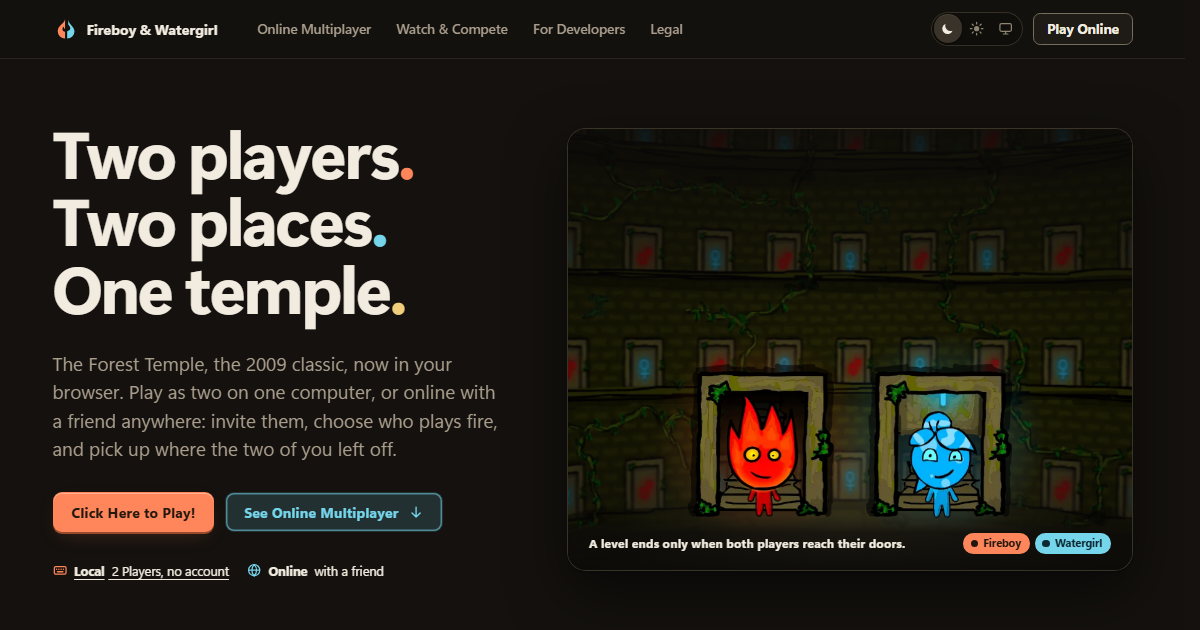
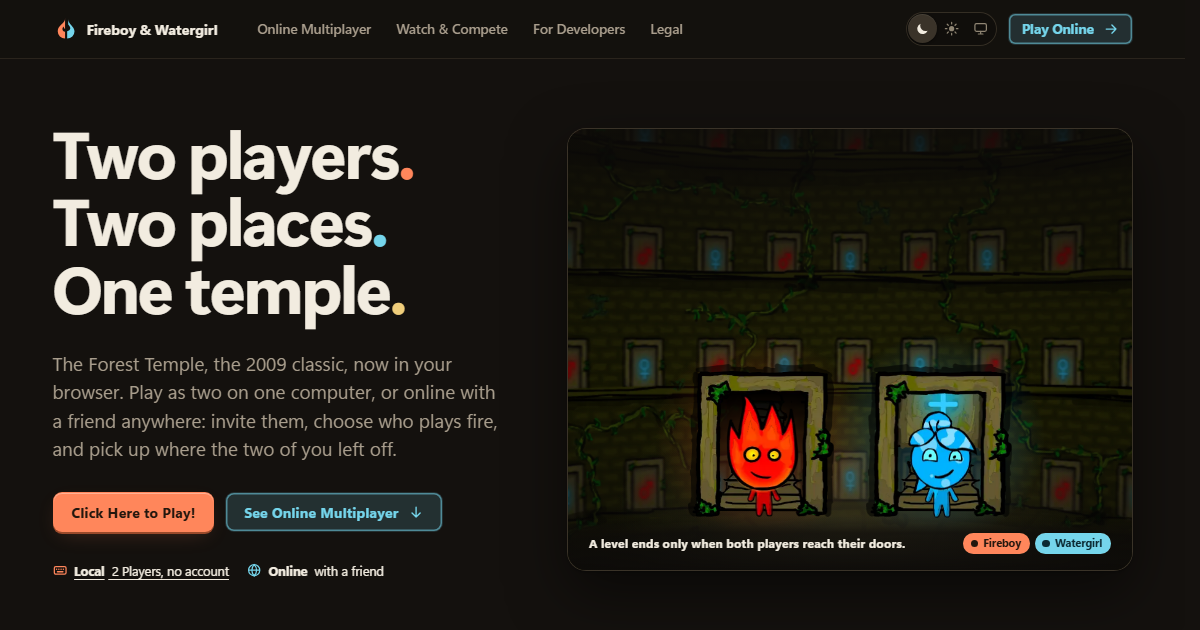
local play in the landing page's materials; a pulsing Play Online water button in every header
- #/local: the game framed between an ember and a water glow, each player's
  keys on their own card, keycaps that press and light with the keyboard.
- Play Online matches See Online Multiplayer (water tint, arrow) and breathes;
  the ring stops on hover and under reduced motion.
- The signed-out chunks (landing, local play, their shared styles) share the
  100 kB signed-out budget; the game's 860 kB budget is unchanged.

Changed region(s): [[0.74, 0.0, 0.9558, 0.0905], [0.74, 0.6032, 0.8325, 0.7238]]

diff --git a/app/src/screens/guest.ts b/app/src/screens/guest.ts
@@ -8,27 +8,72 @@
  * Progress lives under its own key, not the engine's default `FBCookie`:
  * `solosave.ts` adopts that legacy key into the next account that signs in on
  * this browser, and a guest's medals are not that account's.
+ *
+ * Dressed in the landing page's own stylesheets (adopted on arrival, removed
+ * on departure, exactly as `landing.ts` does) so the game is the same place
+ * the page that sent people here promised.
  */
 import { GameView, STAGE_W, STAGE_H } from "@engine/embed.js";
 import { LocalSave } from "@engine/game/save.js";
-import { el } from "../ui/dom.js";
+import tokens from "@landing/shared/tokens.css?inline";
+import base from "@landing/shared/base.css?inline";
+import local from "../ui/guest.css?inline";
+import { el, on } from "../ui/dom.js";
+import { emblem } from "../ui/brand.js";
 
 export const GUEST_KEY = "FBCookie:guest";
 
+const ARROW = '<svg viewBox="0 0 20 20" aria-hidden="true"><path d="M4 10h12m0 0-5-5m5 5-5 5" fill="none" stroke="currentColor" stroke-width="1.7" stroke-linecap="round" stroke-linejoin="round"/></svg>';
+
+const key = (code: string, label: string, name: string) =>
+  el("kbd", { "data-code": code, title: name }, label);
+
 export function guestScreen(host: HTMLElement): () => void {
+  const style = new CSSStyleSheet();
+  style.replaceSync([tokens, base, local].join("\n"));
+  document.adoptedStyleSheets = [...document.adoptedStyleSheets, style];
+  host.classList.add("guest-host");
+
   const canvas = el("canvas", {
-    id: "stage", width: STAGE_W, height: STAGE_H, tabindex: "0",
+    width: STAGE_W, height: STAGE_H, tabindex: "0",
     role: "application", "aria-label": "Fireboy and Watergirl, played on a canvas",
     "aria-describedby": "guest-keys",
   });
-  host.append(el("div", { class: "guest" },
-    el("header", { class: "guest-bar" },
-      el("a", { href: "#/" }, "Fireboy & Watergirl"),
-      el("a", { class: "secondary", href: "#/login" }, "Play Online")),
-    el("div", { class: "guest-stage" }, canvas),
-    el("p", { class: "note", id: "guest-keys" },
-      "Fireboy: arrow keys · Watergirl: W A D · P pauses. Progress is saved in this browser only.")));
+  const online = el("a", { class: "btn btn-water btn-s btn-online btn-pulse", href: "#/login" }, "Play Online ");
+  online.insertAdjacentHTML("beforeend", ARROW);
+
+  host.append(el("div", { class: "local" },
+    el("header", { class: "nav" },
+      el("div", { class: "wrap nav-row" },
+        el("a", { class: "brand", href: "#/", "aria-label": "Fireboy and Watergirl, home" },
+          emblem(), el("span", { class: "brand-text" }, "Fireboy & Watergirl")),
+        el("div", { class: "nav-end" }, online))),
+    el("main", { class: "local-main" },
+      el("div", { class: "local-stage" }, canvas),
+      el("div", { class: "local-controls", id: "guest-keys" },
+        el("div", { class: "player player-fire" },
+          el("span", { class: "player-name" }, "Fireboy"),
+          el("span", { class: "keys" },
+            key("ArrowLeft", "←", "Left arrow"), key("ArrowUp", "↑", "Up arrow"), key("ArrowRight", "→", "Right arrow"))),
+        el("p", { class: "local-hint" }, key("KeyP", "P", "P"), "pauses", el("br"), "Saved in this browser"),
+        el("div", { class: "player player-water" },
+          el("span", { class: "player-name" }, "Watergirl"),
+          el("span", { class: "keys" },
+            key("KeyA", "A", "A"), key("KeyW", "W", "W"), key("KeyD", "D", "D")))))));
+
+  // The keycaps follow the real keyboard. Listening is all this does: the game
+  // reads its own input, and nothing here prevents or changes a key.
+  const caps = new Map([...host.querySelectorAll<HTMLElement>("kbd[data-code]")].map(k => [k.dataset.code!, k]));
+  const press = (down: boolean) => (e: Event) => caps.get((e as KeyboardEvent).code)?.classList.toggle("is-down", down);
+  const release = () => caps.forEach(k => k.classList.remove("is-down"));
+  const off = [on(window, "keydown", press(true)), on(window, "keyup", press(false)), on(window, "blur", release)];
+
   const view = new GameView({ canvas, assets: __ASSETS__, save: new LocalSave(GUEST_KEY) });
   canvas.focus();
-  return () => view.destroy();
+  return () => {
+    view.destroy();
+    off.forEach(f => f());
+    host.classList.remove("guest-host");
+    document.adoptedStyleSheets = document.adoptedStyleSheets.filter(s => s !== style);
+  };
 }

diff --git a/app/src/ui/guest.css b/app/src/ui/guest.css
@@ -1,0 +1,86 @@
+/*
+ * Local play (screens/guest.ts), in the landing page's own materials: its
+ * tokens, its nav and its buttons (tokens.css and base.css are adopted beside
+ * this sheet), so leaving the landing page for a game feels like one place.
+ */
+
+/* The app centres a single card in #app; this is a full-bleed page. */
+#app.guest-host { display: block; padding: 0; min-height: 100dvh; align-items: initial; justify-content: initial; }
+body:has(#app.guest-host) { background-image: none; }
+
+.local { min-height: 100dvh; display: grid; grid-template-rows: auto 1fr; overflow-x: clip; }
+.local-main {
+  display: grid; align-content: center; justify-items: center; gap: 1.25rem;
+  padding: 1.25rem var(--gutter) 1.5rem;
+}
+
+/*
+ * The stage: as large as the window allows at 4:3, leaving room for the nav
+ * and the key cards. Behind it, an ember glow on Fireboy's side and a water
+ * glow on Watergirl's, so the frame sits between the two players' colours.
+ */
+.local-stage {
+  position: relative; isolation: isolate;
+  width: min(100%, calc((100dvh - 15.5rem) * 4 / 3)); min-width: min(100%, 20rem);
+  aspect-ratio: 4 / 3;
+  animation: local-in 520ms var(--ease-out) both;
+}
+.local-stage::before {
+  content: ""; position: absolute; inset: -12% -8%; z-index: -1; pointer-events: none;
+  background:
+    radial-gradient(50% 60% at 12% 55%, var(--glow-fire), transparent 70%),
+    radial-gradient(50% 60% at 88% 55%, var(--glow-water), transparent 70%);
+  filter: blur(24px);
+}
+.local-stage canvas {
+  display: block; width: 100%; height: 100%; outline: none; touch-action: none;
+  border-radius: 1rem; border: 1px solid var(--edge);
+  box-shadow: 0 1px 0 #ffffff0d inset, 0 2rem 4rem -1.5rem #000c;
+}
+@keyframes local-in { from { opacity: 0; transform: translateY(.5rem) scale(.985); } }
+
+/* ---- The two players' keys ---- */
+.local-controls {
+  width: min(100%, calc((100dvh - 15.5rem) * 4 / 3)); min-width: min(100%, 20rem);
+  display: grid; grid-template-columns: auto auto auto; justify-content: center; align-items: center; gap: .75rem 1.75rem;
+  animation: local-in 520ms 80ms var(--ease-out) both;
+}
+.player {
+  display: flex; align-items: center; justify-content: space-between; gap: .75rem;
+  padding: .625rem .75rem .625rem 1rem; border-radius: .875rem;
+  background: var(--surface); border: 1px solid var(--edge);
+}
+.player-name { font: 650 .9375rem/1.2 var(--heading); letter-spacing: -.005em; min-width: 5.5rem; }
+.player-fire .player-name { color: var(--fire-text); }
+.player-water .player-name { color: var(--water-text); }
+.player-water { flex-direction: row-reverse; padding: .625rem 1rem .625rem .75rem; }
+.keys { display: flex; gap: .375rem; }
+
+/*
+ * Keycaps that answer the keyboard: a key goes down the moment it is pressed
+ * (on keydown, not keyup) and lights in its player's colour, so two people
+ * learning the controls can see whose key is whose.
+ */
+.local kbd {
+  display: inline-grid; place-items: center; min-width: 2.25rem; height: 2.25rem; padding: 0 .5rem;
+  border-radius: .5rem; border: 1px solid var(--edge-strong); border-bottom-width: 3px;
+  background: linear-gradient(var(--raised), var(--surface));
+  color: var(--ink); font: 600 .875rem/1 var(--mono);
+  transition: transform 90ms var(--ease-out), border-width 90ms var(--ease-out), background-color 90ms var(--ease-out), box-shadow 160ms var(--ease);
+}
+.local kbd.is-down { transform: translateY(2px); border-bottom-width: 1px; }
+.player-fire kbd.is-down { background: color-mix(in srgb, var(--fire) 28%, var(--surface)); border-color: var(--fire-text); box-shadow: 0 0 1rem var(--glow-fire); }
+.player-water kbd.is-down { background: color-mix(in srgb, var(--water) 28%, var(--surface)); border-color: var(--water-text); box-shadow: 0 0 1rem var(--glow-water); }
+
+.local-hint { margin: 0; text-align: center; color: var(--faint); font-size: .8125rem; line-height: 1.5; }
+.local-hint kbd { min-width: 1.75rem; height: 1.75rem; font-size: .75rem; margin-right: .25rem; }
+
+@media (max-width: 760px) {
+  .local-controls { grid-template-columns: 1fr; justify-content: stretch; }
+  .local-hint { grid-row: 3; }
+}
+@media (prefers-reduced-motion: reduce) {
+  .local-stage, .local-controls { animation-name: local-fade; }
+  .local kbd.is-down { transform: none; }
+}
+@keyframes local-fade { from { opacity: 0; } }

diff --git a/design/landing/shared/base.css b/design/landing/shared/base.css
@@ -98,6 +98,35 @@ h1, h2, h3, h4, p { margin: 0; }
 .vg-btn.is-pressed { transform: scale(.97); }
 :where(.icon-btn, .seg button, .watch-replay, .nav-links a, .devnav a) { transition: transform 100ms var(--ease-out), background-color var(--press) var(--ease), color var(--press) var(--ease); }
 .btn-s { --h: 2.25rem; padding: 0 .875rem; font-size: .9375rem; border-radius: .5rem; }
+/*
+ * Ember and water, like the two players. The water button is tinted rather
+ * than filled so it stays second in rank: one saturated action per screen.
+ * Its arrow nudges the way it points on hover (--nudge).
+ */
+.btn-water { --nudge: translateY(2px); color: var(--water-text); background: color-mix(in srgb, var(--water) 16%, transparent); box-shadow: inset 0 0 0 1.5px color-mix(in srgb, var(--water-text) 55%, transparent); }
+.btn-water svg { transition: transform var(--settle) var(--ease); }
+.btn-online { --nudge: translateX(2px); }
+@media (hover: hover) and (pointer: fine) {
+  .btn-water:hover { background: color-mix(in srgb, var(--water) 26%, transparent); }
+  .btn-water:hover svg { transform: var(--nudge); }
+}
+/*
+ * Play Online breathes: a ring of water light leaves the button and fades,
+ * then rests. Compositor-only (transform and opacity on its own layer), so it
+ * never costs the page a frame. It stops while the pointer is on the button --
+ * once someone is there it has done its job -- and under reduced motion.
+ */
+.btn-pulse::after {
+  content: ""; position: absolute; inset: 0; border-radius: inherit; pointer-events: none;
+  box-shadow: 0 0 0 1.5px var(--water), 0 0 1rem color-mix(in srgb, var(--water) 45%, transparent);
+  opacity: 0; animation: btn-pulse 2.6s var(--ease-out) infinite;
+}
+@keyframes btn-pulse {
+  0% { opacity: .9; transform: scale(1); }
+  60%, 100% { opacity: 0; transform: scale(1.12, 1.35); }
+}
+@media (hover: hover) and (pointer: fine) { .btn-pulse:hover::after { animation: none; } }
+@media (prefers-reduced-motion: reduce) { .btn-pulse::after { animation: none; } }
 
 /* ---------- Nav ---------- */
 .nav {

diff --git a/design/landing/index.html b/design/landing/index.html
@@ -25,16 +25,6 @@
   /* The full stops carry the palette; nothing else in the headline does. */
   .stop-fire { color: var(--fire-text); } .stop-water { color: var(--water-text); } .stop-gold { color: var(--gold-text); }
   .hero-actions { display: flex; flex-wrap: wrap; gap: .75rem; align-items: center; }
-  /*
-   * Ember and water, like the two players. The secondary is tinted rather than
-   * filled so it stays second in rank: one saturated action per screen.
-   */
-  .btn-water { color: var(--water-text); background: color-mix(in srgb, var(--water) 16%, transparent); box-shadow: inset 0 0 0 1.5px color-mix(in srgb, var(--water-text) 55%, transparent); }
-  .btn-water svg { transition: transform var(--settle) var(--ease); }
-  @media (hover: hover) and (pointer: fine) {
-    .btn-water:hover { background: color-mix(in srgb, var(--water) 26%, transparent); }
-    .btn-water:hover svg { transform: translateY(2px); }
-  }
   .hero-meta { display: flex; flex-wrap: wrap; gap: .5rem 1.25rem; margin: 0; padding: 0; list-style: none; color: var(--faint); font-size: .875rem; }
   .hero-meta li { display: inline-flex; align-items: center; gap: .5rem; }
   .hero-meta svg { width: 1rem; height: 1rem; color: var(--moss-text); flex: none; }
@@ -125,7 +115,7 @@
     </nav>
     <div class="nav-end">
       <div id="theme"></div>
-      <a class="btn btn-ghost btn-s" href="#/login" data-signin>Play Online</a>
+      <a class="btn btn-water btn-s btn-online btn-pulse" href="#/login" data-signin>Play Online <svg viewBox="0 0 20 20" aria-hidden="true"><path d="M4 10h12m0 0-5-5m5 5-5 5" fill="none" stroke="currentColor" stroke-width="1.7" stroke-linecap="round" stroke-linejoin="round"/></svg></a>
     </div>
   </div>
 </header>

diff --git a/app/src/ui/styles.css b/app/src/ui/styles.css
@@ -584,13 +584,6 @@ kbd { padding:4px 8px; border:1px solid #5b5346; border-bottom-width:3px; border
   .friend-avatar::after { forced-color-adjust:none; }
 }
 
-/* Guest local play (screens/guest.ts): the stage, as large as fits, 4:3. */
-#app:has(.guest) { padding: 12px 14px; }
-.guest { width: 100%; display: grid; gap: 8px; justify-items: center; }
-.guest-bar { width: 100%; display: flex; justify-content: space-between; align-items: center; gap: 12px; }
-.guest-bar > a:first-child { white-space: nowrap; }
-.guest-bar a.secondary { width: auto; }
-.guest-stage { width: min(100%, calc((100dvh - 120px) * 4 / 3)); aspect-ratio: 4 / 3; }
 /* The age screen (age.ts): two fields side by side, otherwise the sign-up form's own pieces. */
 .age-row { display: grid; grid-template-columns: 1.4fr 1fr; gap: 10px; }
 .card .pick { min-height: 44px; }

diff --git a/design/landing/developers/architecture.html b/design/landing/developers/architecture.html
@@ -23,7 +23,7 @@
     </nav>
     <div class="nav-end">
       <div id="theme"></div>
-      <a class="btn btn-ghost btn-s" href="../#/login" data-signin>Play Online</a>
+      <a class="btn btn-water btn-s btn-online btn-pulse" href="../#/login" data-signin>Play Online <svg viewBox="0 0 20 20" aria-hidden="true"><path d="M4 10h12m0 0-5-5m5 5-5 5" fill="none" stroke="currentColor" stroke-width="1.7" stroke-linecap="round" stroke-linejoin="round"/></svg></a>
     </div>
   </div>
 </header>

diff --git a/design/landing/developers/index.html b/design/landing/developers/index.html
@@ -23,7 +23,7 @@
     </nav>
     <div class="nav-end">
       <div id="theme"></div>
-      <a class="btn btn-ghost btn-s" href="../#/login" data-signin>Play Online</a>
+      <a class="btn btn-water btn-s btn-online btn-pulse" href="../#/login" data-signin>Play Online <svg viewBox="0 0 20 20" aria-hidden="true"><path d="M4 10h12m0 0-5-5m5 5-5 5" fill="none" stroke="currentColor" stroke-width="1.7" stroke-linecap="round" stroke-linejoin="round"/></svg></a>
     </div>
   </div>
 </header>

diff --git a/design/landing/developers/netcode.html b/design/landing/developers/netcode.html
@@ -23,7 +23,7 @@
     </nav>
     <div class="nav-end">
       <div id="theme"></div>
-      <a class="btn btn-ghost btn-s" href="../#/login" data-signin>Play Online</a>
+      <a class="btn btn-water btn-s btn-online btn-pulse" href="../#/login" data-signin>Play Online <svg viewBox="0 0 20 20" aria-hidden="true"><path d="M4 10h12m0 0-5-5m5 5-5 5" fill="none" stroke="currentColor" stroke-width="1.7" stroke-linecap="round" stroke-linejoin="round"/></svg></a>
     </div>
   </div>
 </header>

diff --git a/design/landing/developers/recovery.html b/design/landing/developers/recovery.html
@@ -23,7 +23,7 @@
     </nav>
     <div class="nav-end">
       <div id="theme"></div>
-      <a class="btn btn-ghost btn-s" href="../#/login" data-signin>Play Online</a>
+      <a class="btn btn-water btn-s btn-online btn-pulse" href="../#/login" data-signin>Play Online <svg viewBox="0 0 20 20" aria-hidden="true"><path d="M4 10h12m0 0-5-5m5 5-5 5" fill="none" stroke="currentColor" stroke-width="1.7" stroke-linecap="round" stroke-linejoin="round"/></svg></a>
     </div>
   </div>
 </header>

diff --git a/design/landing/legal/privacy.html b/design/landing/legal/privacy.html
@@ -22,7 +22,7 @@
     </nav>
     <div class="nav-end">
       <div id="theme"></div>
-      <a class="btn btn-ghost btn-s" href="../#/login" data-signin>Play Online</a>
+      <a class="btn btn-water btn-s btn-online btn-pulse" href="../#/login" data-signin>Play Online <svg viewBox="0 0 20 20" aria-hidden="true"><path d="M4 10h12m0 0-5-5m5 5-5 5" fill="none" stroke="currentColor" stroke-width="1.7" stroke-linecap="round" stroke-linejoin="round"/></svg></a>
     </div>
   </div>
 </header>

diff --git a/design/landing/legal/terms.html b/design/landing/legal/terms.html
@@ -22,7 +22,7 @@
     </nav>
     <div class="nav-end">
       <div id="theme"></div>
-      <a class="btn btn-ghost btn-s" href="../#/login" data-signin>Play Online</a>
+      <a class="btn btn-water btn-s btn-online btn-pulse" href="../#/login" data-signin>Play Online <svg viewBox="0 0 20 20" aria-hidden="true"><path d="M4 10h12m0 0-5-5m5 5-5 5" fill="none" stroke="currentColor" stroke-width="1.7" stroke-linecap="round" stroke-linejoin="round"/></svg></a>
     </div>
   </div>
 </header>
